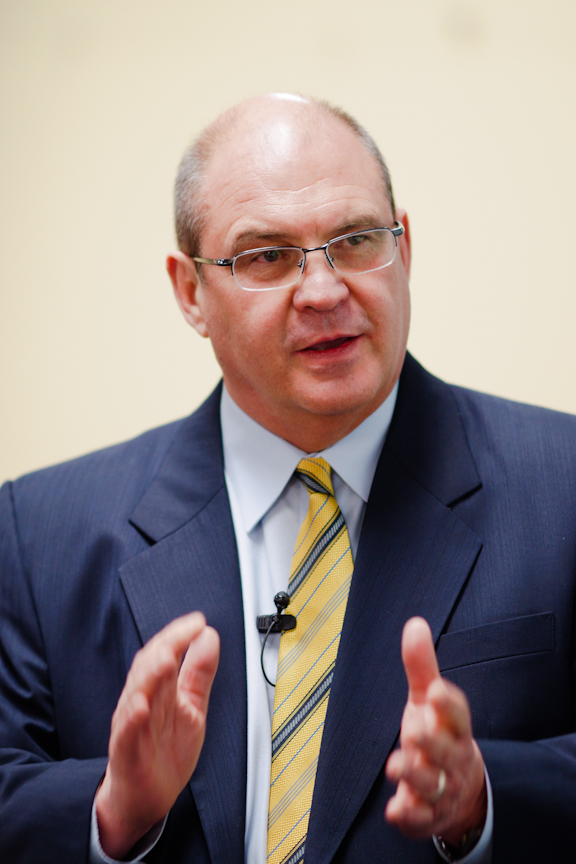
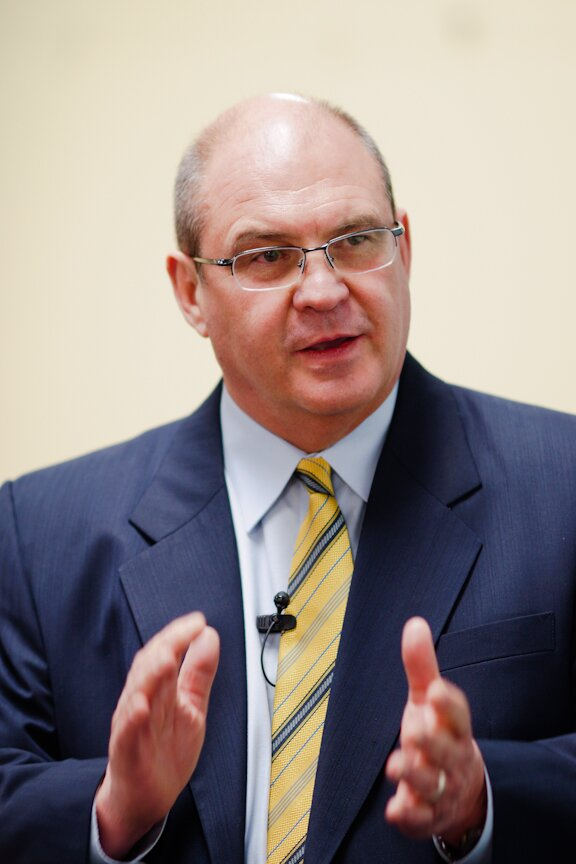
Add headshot-normalization pipeline; re-encode oversized photos
scripts/normalize-headshot.sh (ImageMagick) re-encodes a photo to
consistent quality/color space, strips EXIF/ICC/XMP metadata, and
caps resolution at what the site actually displays. Ran it on all 7
team headshots (729KB -> 385KB total, worst offender 346KB -> 58KB)
and on four other site photos with the same bloat pattern (01.jpg,
02.jpeg, 03.jpg, leader-portrait.jpg). No re-cropping, no framing
changes, no visible quality loss (verified by screenshot).

Added photoWidth/photoHeight to each team.js entry, wired into
renderTeam()'s rendered <img> tags to prevent layout shift.

Claude-Session: https://claude.ai/code/session_01L3LdtgCEramMfx3JzCPDDg

Changed region(s): [[0.4688, 0.5312, 0.625, 1.0]]

diff --git a/team.js b/team.js
@@ -7,6 +7,12 @@
 //   id    — used to build the dialog id "dlg-<id>" and deep links
 //           (who-we-are.html#dlg-<id>), unchanged from the existing markup.
 //   name, role, photo — unchanged from current site text/files.
+//   photoWidth/photoHeight — the normalized photo's actual pixel
+//           dimensions (see scripts/normalize-headshot.sh), set as
+//           width/height attributes on the rendered <img> so the
+//           browser reserves the right space before it loads and
+//           nothing shifts. Re-run the script and update these two
+//           numbers if a person's photo is ever replaced.
 //   bio   — array of bio paragraphs (HTML allowed for the rare <em>/&amp;),
 //           shown only on who-we-are.html. Omit (or leave empty) for
 //           roster members who appear in the grid but have no bio copy yet.
@@ -16,6 +22,8 @@ window.SCL_TEAM = [
     name: "Farhad Motiwalla",
     role: "Consultant",
     photo: "farhad-motiwalla.jpg",
+    photoWidth: 600,
+    photoHeight: 600,
     bio: [
       "Farhad Motiwalla is a senior leadership, communication, and strategy specialist. He works with business leaders on the skills and strategies required to drive results. He specializes in helping C-suite executives and company board members lead, grow, and manage their organizations through complexities and times of change. He also works with leaders to clearly think through intended and unintended consequences, and to develop their authentic brand while leading in complex times.",
       "In addition, Farhad effectively coaches leaders in areas that involve persuasive communication skills for a variety of high-stakes situations, such as business development, negotiations, and ethical decision making. Clients value Farhad's insightful advice and his ability to execute dramatic change. Both clients and colleagues have expressed that Farhad challenges them to think beyond what is currently known to ascertain the right direction and strategies needed to achieve desired results: \"He gives you the clarity with which to help you better know, understand, and lead yourself.\"",
@@ -28,6 +36,8 @@ window.SCL_TEAM = [
     name: "Sarah-Jane Campbell",
     role: "Communication Specialist",
     photo: "sarah-jane-campbell.jpg",
+    photoWidth: 600,
+    photoHeight: 600,
     bio: [
       "Sarah-Jane Campbell is a senior communications consultant and executive coach, recognized for helping leaders communicate with clarity, confidence, and authority. She brings a distinctive combination of strategic insight, facilitation expertise, and executive presence to her work, partnering with senior leaders to refine their leadership style, sharpen high-stakes messaging, elevate delivery, and build high-performing teams.",
       "With deep experience coaching executives through mission-critical moments, Sarah-Jane is especially skilled at preparing C-suite leaders for high-profile events such as investor days, board meetings, and crisis communications. Her clients value her calm, analytical approach and ability to distill complex ideas into clear, compelling narratives tailored for internal and external stakeholders.",
@@ -40,6 +50,8 @@ window.SCL_TEAM = [
     name: "Jennifer Tarsitano",
     role: "Senior Communications Consultant",
     photo: "jennifer-tarsitano.jpg",
+    photoWidth: 397,
+    photoHeight: 398,
     bio: [
       "Jennifer Tarsitano is a seasoned business advisor and senior communications consultant. She has extensive experience helping business leaders be more strategic and thoughtful in their approach, allowing them to communicate more effectively and deliver meaningful results in fast-paced, high-pressure environments.",
       "Jennifer thrives in fast-paced environments and is recognized by clients for her practical approach and her ability to quickly understand client objectives, anticipate challenges, and identify solutions that balance competing priorities. Her combination of business acumen, communications approach, and client-centric thinking enables leaders to respond effectively to evolving opportunities and challenges.",
@@ -52,6 +64,8 @@ window.SCL_TEAM = [
     name: "Jeff Penney",
     role: "Consultant",
     photo: "JeffPenny.jpg",
+    photoWidth: 880,
+    photoHeight: 1100,
     bio: [
       "Jeff Penney is an experienced management consultant and executive coach. Jeff specializes in advising C-suite executives on critical leadership, communication, and business issues. His practical insights help clients navigate complex corporate dynamics, develop strategy, and lead teams through successful execution.",
       "Through his 35-year career, Jeff has led global organizations and managed teams in investment banking and capital markets at Merrill Lynch, Morgan Stanley, and Credit Suisse — augmented by his recent roles as Chief Strategy Officer for Two Sigma Investments, Global Head of Strategy for the Corporate and Investment Bank of JP Morgan, and Senior Advisor to McKinsey &amp; Company. An engineer by training, his familiarity with the latest innovations makes him a unique partner and wise counsel.",
@@ -64,6 +78,8 @@ window.SCL_TEAM = [
     name: "Jim Zarvos",
     role: "Leadership Counsel",
     photo: "JimZarvos.jpg",
+    photoWidth: 576,
+    photoHeight: 864,
     bio: [
       "Jim Zarvos is a senior consultant specializing in executive coaching and shaping high performance teams. Jim has an extensive background in dramatically improving people's ability to lead effectively, communicate, coach, and produce unprecedented results.",
       "Jim has a keen ability to understand complex business issues, interpersonal dynamics, and underlying drivers in decision making — guiding leaders to be more impactful in their management of these issues and decisions. Jim uses a rigorous approach to help leaders challenge their own current thinking and biases to create exceptional results.",
@@ -76,6 +92,8 @@ window.SCL_TEAM = [
     name: "Neil Johnson",
     role: "Consultant",
     photo: "NeilJohnson.jpg",
+    photoWidth: 1080,
+    photoHeight: 864,
     bio: [
       "Neil Johnson, CFA, brings over 40 years of business experience to SCL from some of the most prestigious asset management firms. He is uniquely qualified to provide pitch consulting, executive coaching, and leadership counsel given his real-life experience as an institutional asset management sales producer, leader, and executive.",
       "Neil is widely recognized for his discipline, rigor, and persistence — the hallmarks of winning complex and challenging opportunities.",
@@ -87,6 +105,8 @@ window.SCL_TEAM = [
     name: "Megan Broker",
     role: "Consultant",
     photo: "MeganBroker.jpg",
+    photoWidth: 380,
+    photoHeight: 475,
     bio: [
       "Megan Broker is a consultant with SCL, working with leaders and teams on the communication and strategy challenges that come with high-stakes engagements."
     ]

diff --git a/main.js b/main.js
@@ -19,7 +19,7 @@ function renderTeam() {
       .map(function (p) {
         return (
           '<a class="team-teaser-card" href="who-we-are.html#dlg-' + p.id + '">' +
-            '<div class="team-teaser-photo"><img src="' + p.photo + '" alt="" loading="lazy" /></div>' +
+            '<div class="team-teaser-photo"><img src="' + p.photo + '" alt="" width="' + p.photoWidth + '" height="' + p.photoHeight + '" loading="lazy" /></div>' +
             '<span class="team-teaser-name">' + p.name + "</span>" +
             '<span class="team-teaser-role">' + p.role + "</span>" +
           "</a>"
@@ -35,7 +35,7 @@ function renderTeam() {
         return (
           "<li>" +
             '<button type="button" class="roster-card" data-roster-card="dlg-' + p.id + '">' +
-              '<span class="roster-card-photo"><img src="' + p.photo + '" alt="" loading="lazy" /></span>' +
+              '<span class="roster-card-photo"><img src="' + p.photo + '" alt="" width="' + p.photoWidth + '" height="' + p.photoHeight + '" loading="lazy" /></span>' +
               '<span class="roster-card-name">' + p.name + "</span>" +
               '<span class="roster-card-role">' + p.role + "</span>" +
             "</button>" +
@@ -53,7 +53,7 @@ function renderTeam() {
         return (
           '<dialog class="roster-dialog" id="dlg-' + p.id + '">' +
             '<button type="button" class="roster-dialog-close" data-roster-dialog-close aria-label="Close">✕</button>' +
-            '<img src="' + p.photo + '" alt="" class="roster-dialog-photo" />' +
+            '<img src="' + p.photo + '" alt="" class="roster-dialog-photo" width="' + p.photoWidth + '" height="' + p.photoHeight + '" />' +
             '<div class="roster-dialog-body">' +
               '<h3 class="roster-dialog-name">' + p.name + "</h3>" +
               '<span class="roster-dialog-role">' + p.role + "</span>" +

diff --git a/LAUNCH-CHECKLIST.md b/LAUNCH-CHECKLIST.md
@@ -20,6 +20,15 @@ Before starting, I pulled the actual Granola meeting notes (Sep 22 – Oct 16) r
 
 ## Done this pass (verified by test)
 
+### Round 4 (follow-up)
+
+- **Built the headshot-normalization pipeline**: `scripts/normalize-headshot.sh <input> [output]` (ImageMagick) re-encodes a photo to a consistent JPEG quality (85) and color space (sRGB), strips all embedded metadata (EXIF/ICC/XMP — camera and sometimes location data had no business shipping to site visitors), auto-corrects orientation, and caps the longest edge at 1280px (2x the largest size any headshot is ever displayed at: the bio dialog photo, `min(92vw, 640px)` wide). It's a repeatable script, documented in `README.md`, meant to be run on any new or replaced team photo going forward.
+- **Ran it on all 7 current team headshots.** Source files varied wildly — square, portrait, even one landscape; quality settings from 80 to 99; one (`JimZarvos.jpg`) carrying ~23KB of embedded profile/EXIF data for a 576×864 photo. Normalizing brought total size for the 7 headshots from 729KB to 385KB (47% smaller), with the worst offender (`JimZarvos.jpg`) dropping from 346KB to 58KB. No photo was re-cropped or re-composed — only re-encoded — so how each person is framed is unchanged.
+- Added `photoWidth`/`photoHeight` to each person's entry in `team.js` (the post-normalization pixel dimensions) and wired them into `renderTeam()`'s three `<img>` renders (homepage teaser, roster card, bio dialog) as explicit `width`/`height` attributes, so the browser can reserve the right space before the image loads.
+- **Also ran it on the four other oversized site photos** that showed the same bloat pattern (`01.jpg`, `02.jpeg`, `03.jpg`, `leader-portrait.jpg` — the "Coaches/Counsel/Consultants" pillar photos and a video poster). `01.jpg` dropped from 252KB to 84KB, `03.jpg` from 310KB to 49KB (both were quality-99 JPEGs with no reason to be). `02.jpeg` and `leader-portrait.jpg` were already reasonably encoded and came out roughly flat. Did not touch their resolution otherwise (see "upscaling" note below — that's a separate, decision-blocked issue, not something compression fixes).
+- Verified with: `node --check` on `main.js`/`team.js`, the existing roster Playwright test (grid rendering, dialog open/close, bio content, deep-link-on-fresh-navigation all still correct), a full regression sweep (all pages × 3 viewports, console/network/overflow — clean), and before/after screenshots confirming no visible quality loss on any of the 11 re-encoded images.
+- Updated `README.md`'s "Editing the roster" section (it was stale — written before the Round 3 `team.js` refactor landed, still describing hand-duplication that no longer exists) and added a "Headshots" section documenting the new script.
+
 ### Round 3 (follow-up)
 
 - **Made the team roster data-driven** (`team.js`), removing the duplication between `index.html`'s homepage teaser grid and `who-we-are.html`'s full roster grid + bio dialogs — each person's name, role, photo, and (where it exists) full bio now lives in exactly one place. Both pages render from it via a new `renderTeam()` in `main.js`, called before the existing dialog-wiring/deep-link code (which is otherwise unchanged). Names, roles (including the already-flagged Jim Zarvos "Leadership Counsel" inconsistency — not touched, still needs each person's own confirmation), and bios are copied verbatim from the prior hand-written markup; nothing was reworded or invented. Both pages keep a static `<noscript>` fallback list of names. Verified with Playwright: both grids render all 7 people in the original order, dialog open/close and the Escape/backdrop-close behavior are unchanged, bio content (including the two `<em>` titles and `&amp;`) renders correctly, and a fresh navigation to a deep link (`who-we-are.html#dlg-<id>`) still opens that person's dialog on load. Full regression sweep (all pages × 3 viewports, console/network/overflow checks) stayed clean.
@@ -80,16 +89,15 @@ Before starting, I pulled the actual Granola meeting notes (Sep 22 – Oct 16) r
 
 ### Larger engineering subprojects, deferred (not asset- or decision-blocked, just large)
 
-- Data-driven `team.js`/roster refactor (currently still hand-duplicated in `index.html` and `who-we-are.html`, which is real drift risk, but refactoring it safely is a project of its own — touching roster rendering, dialogs, and deep-linking all at once risks regressing working functionality for 18 real people's profiles).
-- Headshot normalization pipeline (`/tools/headshots.py`, crop boxes, 2x/1x exports, srcset) — needs per-person crop decisions and either the original photo files at higher resolution or sign-off on capping display size for the ones that are too small.
+- Data-driven `team.js`/roster refactor — **done** (see "Round 3" above).
+- Headshot normalization pipeline — **done** (see "Round 4" below): a repeatable script (`scripts/normalize-headshot.sh`) re-encodes any headshot to consistent quality/color space, strips metadata, and caps resolution at what the site actually displays. What's still a real, decision-blocked limitation: this normalizes *encoding*, not *framing* — it does not re-crop anyone's photo, since the crop/composition the person chose for their headshot isn't mine to override. A couple of source photos (`jennifer-tarsitano.jpg` at 397×398, `MeganBroker.jpg` at 380×475) are inherently lower-resolution than the others; normalizing didn't and can't fix that — a higher-res source would need to come from that person.
 - 5 Cs video and its player slot (the asset itself was not supplied this pass — a `TODO(asset)` placeholder slot was not added to Musings in this pass either; flagging it here since the spec called for it specifically).
 - Full SVG logo system (navy/white/gradient variants) and favicon set (32px/16px PNG, apple-touch-icon, site.webmanifest) — the repo currently has the original PNG logo (now correctly transparent) for these purposes; a hand-optimized SVG trace is a dedicated task.
 - Performance work on the background canvas (ring buffer instead of `Array.shift()`, point cap, spatial cursor-interaction check, frame-rate throttling, static frame on `pointer: coarse`/low-memory devices) — not attempted; this canvas's current behavior is unchanged.
 - Full Playwright+axe+Lighthouse QA harness with before/after scores — not built. The verification in this pass was a direct Playwright regression sweep (console errors, broken links, overflow, screenshots) across all pages at three viewports, not the full harness the spec described.
-- Image optimization: `thumb1.png`/`thumb2.png` done this round (see "Round 2" above). Still not done: `01.jpg`/`03.jpg` upscaling at retina widths (03.jpg is only 864px wide, a 2012 photo with no larger source available in this repo — capping display size or sourcing a replacement needs a decision, not a code fix), and `leader-portrait.jpg` (900×1091 portrait source being `object-fit: cover`-cropped into a ~1100px-wide 16:9 landscape poster, a genuine upscale with no better source available). WebP variants not generated (JPEG-only for now).
+- Image optimization: `thumb1.png`/`thumb2.png` done in Round 2; all 7 team headshots plus `01.jpg`/`02.jpeg`/`03.jpg`/`leader-portrait.jpg` re-encoded and metadata-stripped in Round 4 (see below) — total payload across those 11 files dropped from ~1.08MB to ~0.70MB with no visible quality loss (verified by screenshot). What's still **not** done and still needs a decision, not a code fix: `03.jpg` (864px wide, a 2012 photo with no larger source in this repo) and `leader-portrait.jpg` (900×1091 portrait being `object-fit: cover`-cropped into a ~1100px-wide 16:9 landscape poster) are both genuine upscale situations — compressing them better doesn't make the source sharper at the sizes they're displayed at. WebP variants not generated (JPEG-only for now).
 - Visual/content audit items from the spec's section 3.2: hero `<br>` hard-breaks, stats reconciliation, `<mark>` highlight restyle, and the footer's canvas-over-text readability are **done** (see "Round 2" above). Testimonial clipping did not reproduce (tested, see above). Still not done: a full color-contrast pass on eyebrow labels and other gray-on-white/light-blue-on-navy text pairs against WCAG AA — not attempted this round.
 - Self-hosting Google Fonts (to drop the external round-trip) — not done.
-- README rewrite to match the current (flat) file structure — not done this pass (the existing README is stale regarding Jost vs. Inter and the `what-we-do/…` folder structure it describes, which doesn't exist in this repo).
 
 ### Explicitly out of reach for this session
 

diff --git a/README.md b/README.md
@@ -40,11 +40,29 @@ No build step — plain HTML/CSS/JS, ready to serve as-is via GitHub Pages.
 
 ## Editing the roster
 
-Team entries are currently hand-duplicated between `index.html` (the
-homepage teaser grid) and `who-we-are.html` (the full grid + bio dialogs).
-There is no shared data file yet — moving to one is tracked as a deferred
-item in `LAUNCH-CHECKLIST.md`. Until then, edit both files when you change
-someone's name, title, or bio.
+Team entries live in one place: `team.js`. Each person is one object with
+`id`, `name`, `role`, `photo`, `photoWidth`/`photoHeight`, and (optional)
+`bio` — an array of paragraph strings. `main.js`'s `renderTeam()` renders
+that single list into both index.html's homepage teaser grid and
+who-we-are.html's full roster grid + bio dialogs on page load, so there's
+nothing to duplicate by hand. To add, remove, or edit someone, change only
+`team.js`.
+
+Adding a new person's photo: drop the image in the repo root, then run
+`scripts/normalize-headshot.sh <file>` on it (see "Headshots" below) and
+copy the width/height it prints into that person's `photoWidth`/
+`photoHeight`.
+
+## Headshots
+
+`scripts/normalize-headshot.sh <input> [output]` re-encodes a photo to a
+consistent JPEG quality, strips embedded EXIF/ICC/XMP metadata, and caps
+the longest edge at 1280px (2x the largest size any headshot is ever
+displayed at on this site). Run it in place on any new or replaced team
+photo before adding it to `team.js` — it keeps file sizes and encoding
+consistent across a roster whose source photos otherwise arrive in every
+dimension and compression setting imaginable. It prints the final
+dimensions; put those in the person's `photoWidth`/`photoHeight`.
 
 ## Adding a musing
 
